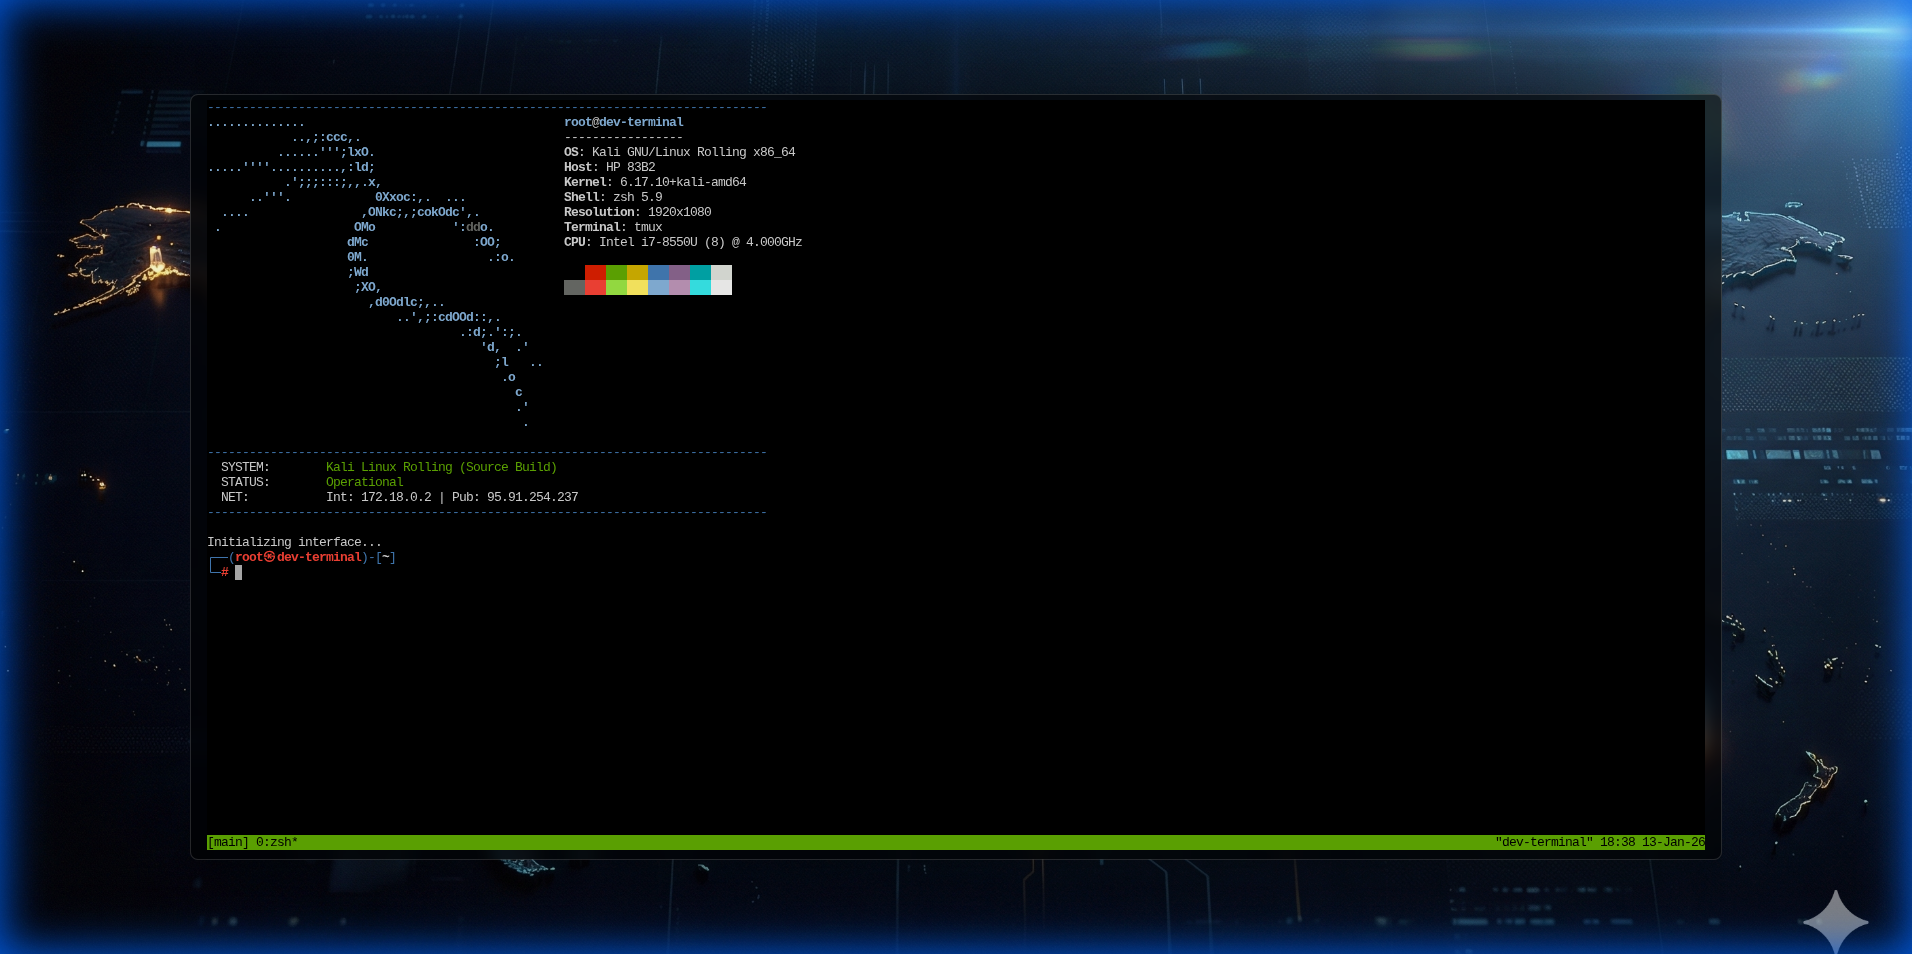
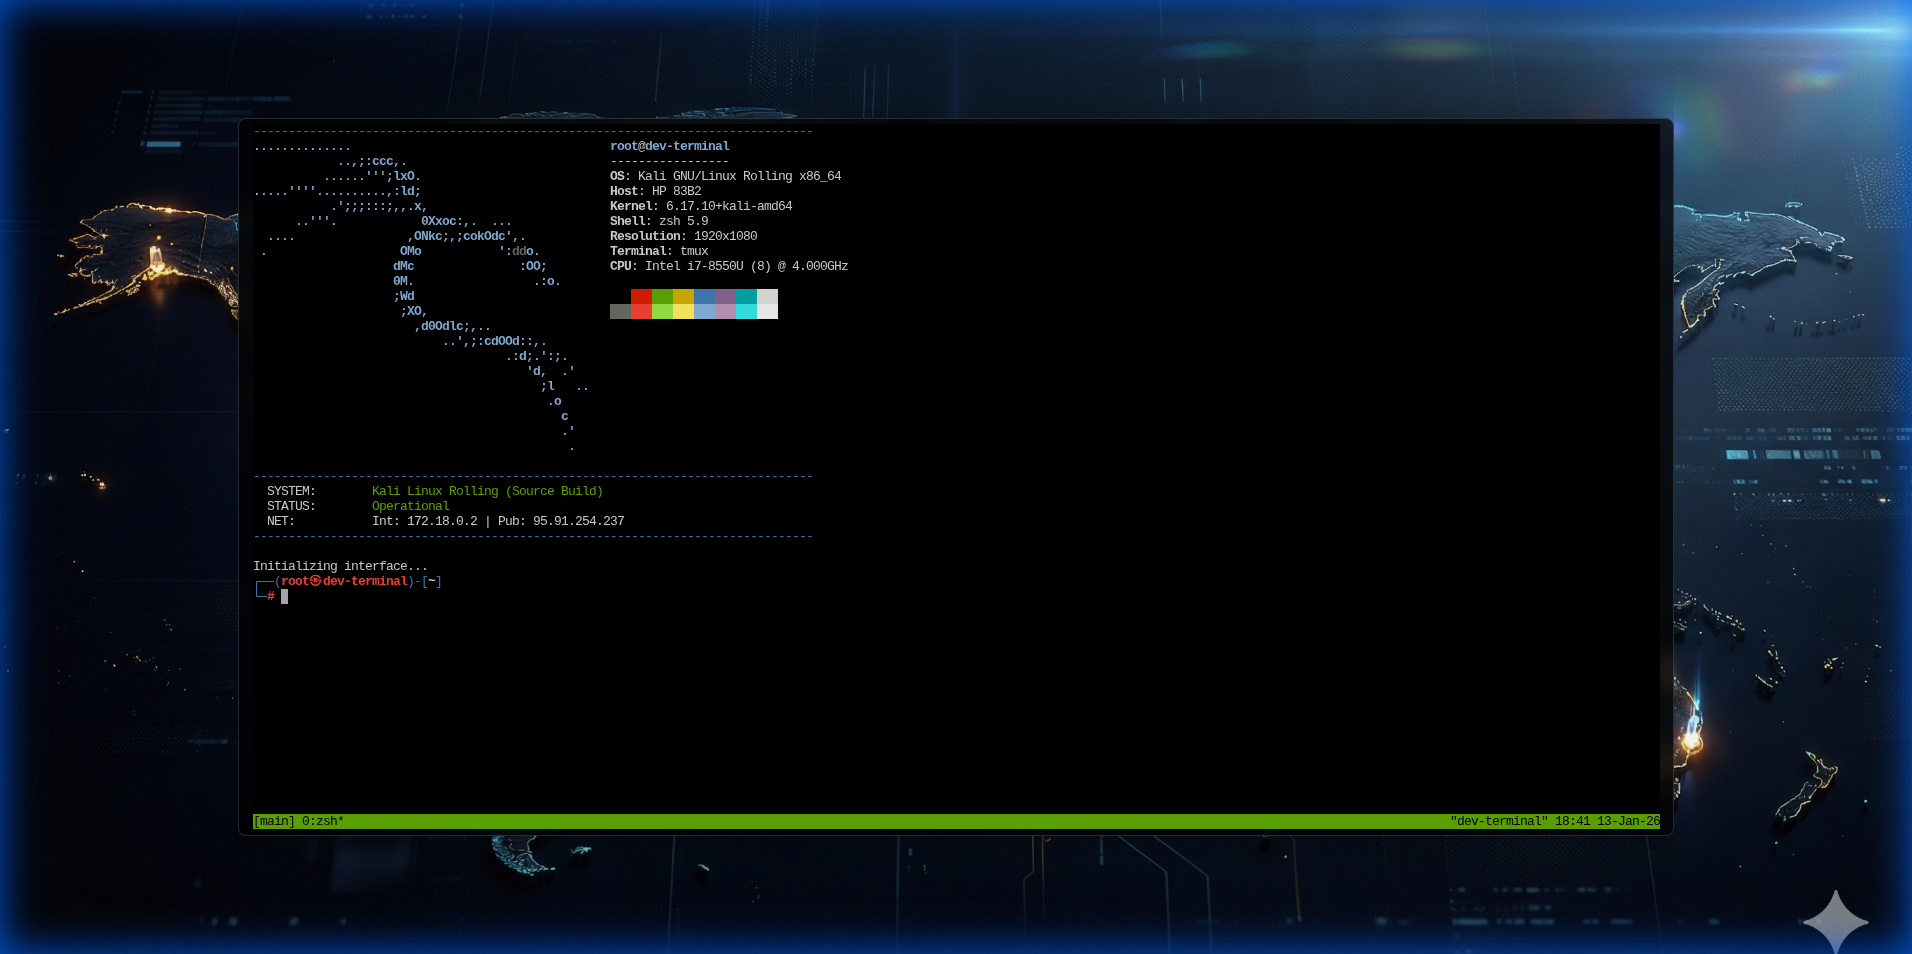
chore: release v1.0.2-alpha with 75% opacity/size visuals

diff --git a/overlay.html b/overlay.html
@@ -26,9 +26,9 @@
 
     /* Target the TTYD container. In app.tsx it is id="terminal-container" */
     #terminal-container {
-        width: 80vw !important;
-        height: 80vh !important;
-        background: rgba(0, 0, 0, 0.60) !important;
+        width: 75vw !important;
+        height: 75vh !important;
+        background: rgba(0, 0, 0, 0.75) !important;
         backdrop-filter: blur(10px) !important;
         -webkit-backdrop-filter: blur(10px) !important;
         border: 1px solid rgba(255, 255, 255, 0.15) !important;

diff --git a/CHANGELOG.md b/CHANGELOG.md
@@ -2,6 +2,12 @@
 
 All notable changes to this project will be documented in this file.
 
+## [1.0.2-alpha] - 2026-01-13
+### 🚀 [ MATRIX_EVOLUTION // ITERATION_75 ]
+- ** > [ NEURAL_INTERFACE ]**: Viewport dimensions adjusted to **75%** scale (75vw / 75vh).
+- ** > [ VISUAL_CLARITY ]**: Opacity calibrated to **75%** (Layer 0.75).
+- ** > [ TERMINAL_CORE ]**: Synced transparency across container and viewport.
+
 ## [1.0.1-alpha] - 2026-01-13
 ### 🚀 [ SYSTEM_UPGRADE // INITIATED ]
 - ** > [ DOCKER_CORE ]**: Initialized `docker-compose.yml` for rapid deployment sequence.

diff --git a/README.md b/README.md
@@ -2,7 +2,7 @@
 
 ![Terminal Preview](docs/terminal_preview.png)
 
-# 🟢 **LEMUE // DEV-TERMINAL** `v1.0.1-alpha`
+# 🟢 **LEMUE // DEV-TERMINAL** `v1.0.2-alpha`
 
 ![License](https://img.shields.io/github/license/derlemue/dev-terminal?style=for-the-badge&labelColor=black&color=00ff41)
 ![Docker](https://img.shields.io/badge/docker-ready-black?style=for-the-badge&logo=docker&logoColor=00ff41)
